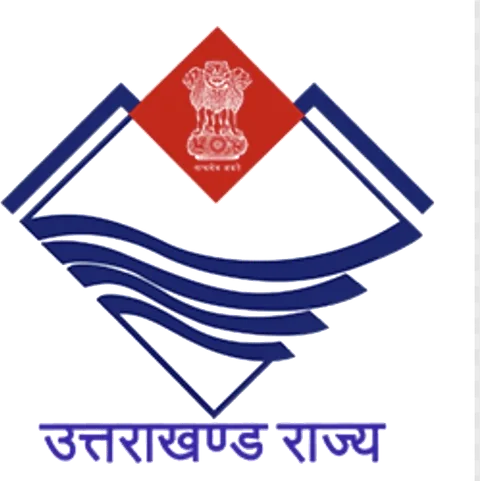
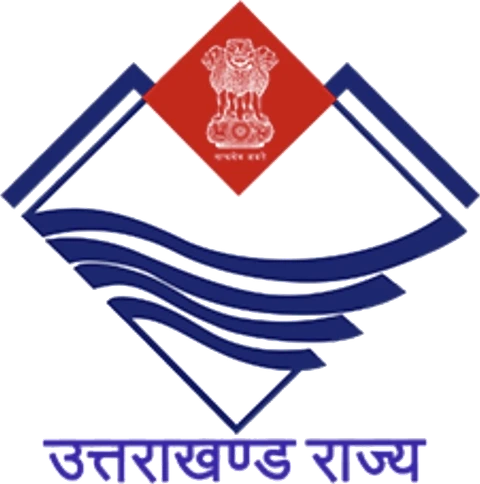
Add campaign photos and official artwork
- 22 new campaign photos (WebP, ≤1600px) from the second batch; exact and
  near-duplicates skipped so no photo appears twice on the site
- Official Uttarakhand Rajya logo (transparent PNG/WebP + inline email copy)
- Prabhari Adhikari / SDM signature; Executive Officer signature
  compressed 403 KB → 13 KB
- Remove unused artwork: drawn emblem.svg, og.svg, Wikimedia photos,
  hero-sm and a duplicate gallery crop
- scripts/build-campaign-photos.mjs regenerates all of the above

diff --git a/src/lib/emblem-png.ts b/src/lib/emblem-png.ts
@@ -1,3 +1,5 @@
-// Rasterised public/emblem.svg (400x440), sent inline in emails because mail clients block SVG.
+// Official Uttarakhand Rajya logo (176x178, on white), sent inline in emails because mail clients block SVG/remote images.
+// Regenerate with scripts/build-campaign-photos.mjs.
 export const EMBLEM_PNG_BASE64 =
[2 lines of base64/hex data omitted]
+export const EMBLEM_PNG_SIZE = { width: 176, height: 178 } as const;
